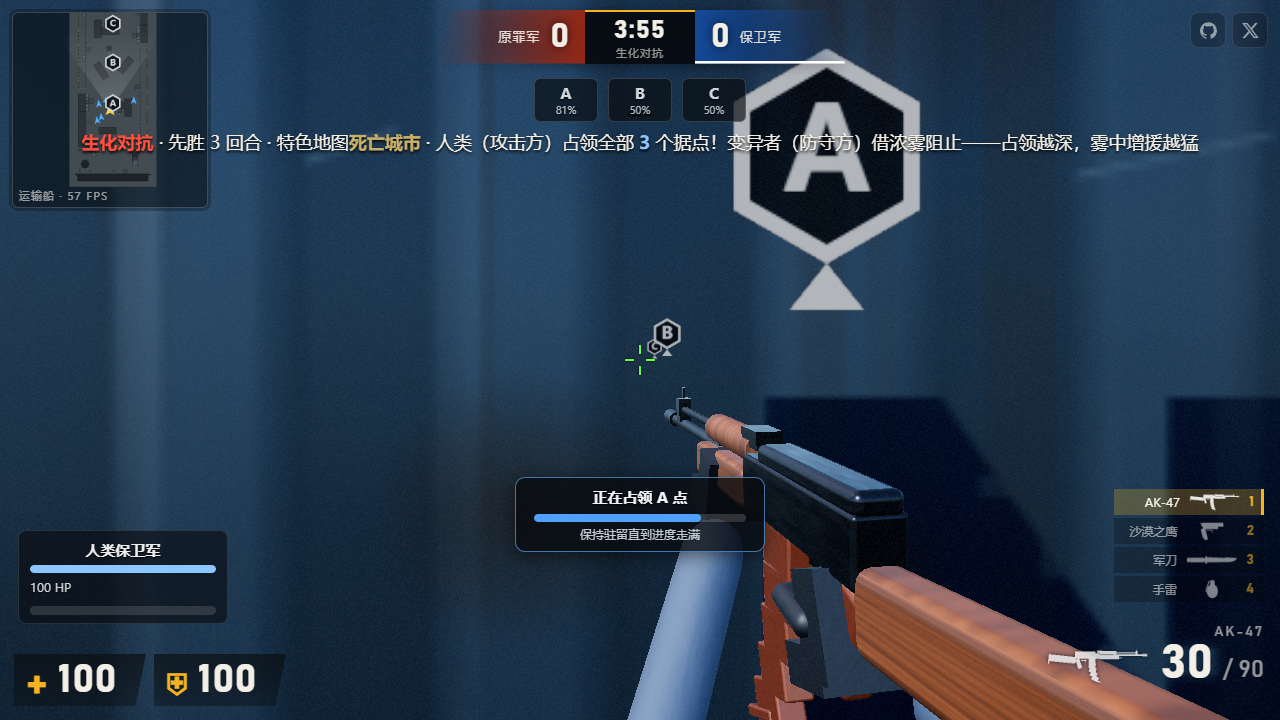
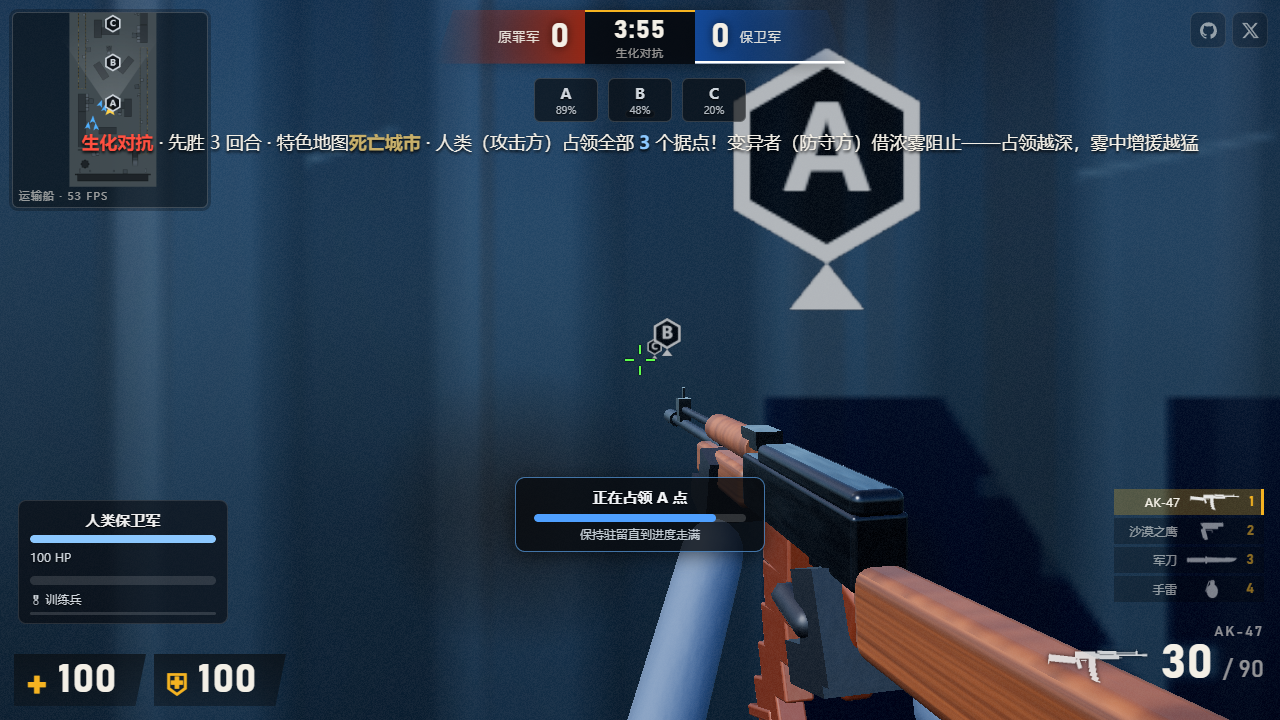
V104 军衔等级系统（官方74级表）+ 官方数据回正（复仇者阈值2/变异者承伤充能）
- src/woz/ranks.js：官方 74 级军衔表（训练兵0→元帅12454000，yzz 473436 全量数值，
  准将3区间按等差修正），rankOf/rankProgress/六档分色/V形纹，xpForMatch 局末经验公式，
  localStorage 持久化
- integrate.js：settleRank 局末结算 + 晋升号角三连/toast；身份牌军衔徽章行（woz/hud.js）
- src/hud.js：修复结算页 WOZ 生涯统计被 endMe.textContent 覆盖丢失的存量 bug，追加军衔行
- 官方数据回正：avengerHumanThreshold 1→2（yzz 516896 上线公告「仅剩两名幸存者」，
  17173「最后的幸存者」为文学化表述）；reportDamage 变异者承伤充能（半速，官方口径）
- 测试：probe v77（12 断言：公式/持久化/晋升/徽章/结算页/号角）；rules +14 断言（97 全绿）；
  v16/v68 按阈值2语义重排搭建；全量回归 v1-v77 + e2e 41 + smoke + balance 绿
- WOZ_RESEARCH.md 第十节：yzz 官方资料库全量采编（军衔表/技能LV123数值/键位表/
  11张官方地图/6角色/模式表/装备道具/武器类别）+ V104+ 版本规划池

Changed region(s): [[0.0, 0.6722, 0.1875, 0.8556], [0.5312, 0.7028, 0.5625, 0.7333], [0.0625, 0.1528, 0.0938, 0.1833]]

diff --git a/cf-transport-ship/src/woz/ranks.js b/cf-transport-ship/src/woz/ranks.js
@@ -1,0 +1,78 @@
+// V104 军衔等级系统 —— 官方 74 级军衔表（叶子猪官方专区 473436 页完整数值；
+// 原文准将3区间排版错误按等差 280000 修正为 5144000∼5423999）
+// 士兵4 → 军士19 → 尉官15 → 校官15 → 将官20 → 元帅1，经验为累计值，元帅封顶。
+
+// 阈值表手工展开（官方逐级数值，勿改）
+export const RANK_XP = [
+  0, 600, 1800, 3500, // 士兵：训练兵 二等兵 一等兵 上等兵
+  6000, 11000, 16000, 21000, 26000, 33000, 40000, 47000, 54000, // 军士：兵长1-2 下士1-3 中士1-4
+  64000, 74000, 84000, 94000, 104000, 124000, 144000, 164000, 184000, 204000, // 上士1-5 元士1-5
+  244000, 284000, 324000, 364000, 404000, 484000, 564000, 644000, 724000, 804000, // 尉官：少尉1-5 中尉1-5
+  904000, 1004000, 1104000, 1204000, 1304000, // 上尉1-5
+  1454000, 1604000, 1754000, 1904000, 2054000, 2254000, 2454000, 2654000, 2854000, 3054000, // 校官：少校 中校
+  3304000, 3554000, 3804000, 4054000, 4304000, // 上校1-5
+  4584000, 4864000, 5144000, 5424000, 5704000, 6034000, 6364000, 6694000, 7024000, 7354000, // 将官：准将 少将
+  7734000, 8114000, 8494000, 8874000, 9254000, 9754000, 10254000, 10754000, 11254000, 11754000, // 中将 上将
+  12454000, // 元帅
+];
+
+const NAME = (zh, n, s = 1) => Array.from({ length: n }, (_, i) => zh + (n > 1 ? (i + 1) * s : ''));
+export const RANK_NAMES = [
+  ...['训练兵', '二等兵', '一等兵', '上等兵'],
+  ...NAME('兵长', 2), ...NAME('下士', 3), ...NAME('中士', 4), ...NAME('上士', 5), ...NAME('元士', 5),
+  ...NAME('少尉', 5), ...NAME('中尉', 5), ...NAME('上尉', 5),
+  ...NAME('少校', 5), ...NAME('中校', 5), ...NAME('上校', 5),
+  ...NAME('准将', 5), ...NAME('少将', 5), ...NAME('中将', 5), ...NAME('上将', 5),
+  '元帅',
+];
+
+// 军衔分档（徽章配色）：0-3 士兵 / 4-22 军士 / 23-37 尉官 / 38-52 校官 / 53-72 将官 / 73 元帅
+export const RANK_TIERS = [
+  { name: '士兵', max: 3, color: '#9aa7b5', chev: '#c8d4e0' },
+  { name: '军士', max: 22, color: '#b08a3e', chev: '#ffd98a' },
+  { name: '尉官', max: 37, color: '#5f86b8', chev: '#a8d0ff' },
+  { name: '校官', max: 52, color: '#c09a2f', chev: '#ffe9a0' },
+  { name: '将官', max: 72, color: '#b8452f', chev: '#ffc8a0' },
+  { name: '元帅', max: 73, color: '#d4af37', chev: '#fff2b0' },
+];
+
+export function rankIdx(xp) {
+  if (!(xp > 0)) return 0;
+  let lo = 0, hi = RANK_XP.length - 1;
+  while (lo < hi) {
+    const mid = (lo + hi + 1) >> 1;
+    if (xp >= RANK_XP[mid]) lo = mid; else hi = mid - 1;
+  }
+  return lo;
+}
+
+export function rankOf(xp) {
+  const i = rankIdx(xp);
+  const tier = RANK_TIERS.findIndex((t) => i <= t.max);
+  const t = RANK_TIERS[tier];
+  const next = i + 1 < RANK_XP.length ? RANK_XP[i + 1] : null;
+  const cur = RANK_XP[i];
+  const frac = next ? Math.max(0, Math.min(1, (xp - cur) / (next - cur))) : 1;
+  return { idx: i, name: RANK_NAMES[i], tier, tierName: t.name, color: t.color, chev: t.chev,
+    cur, next, frac, // 当前档内经验 / 下一档所需（经验条）
+    chevrons: 1 + (i - (tier > 0 ? RANK_TIERS[tier - 1].max + 1 : 0)) }; // 档内第几级（V 形纹数量）
+}
+
+// 局末经验公式（官方未公开每局经验 → 按成分自定平衡：杀敌/伤害/感染/觉醒/胜负/时长）
+export function xpForMatch(st, win, seconds) {
+  const kills = st ? (st.kills || 0) : 0;
+  const dmg = st ? ((st.humanDamage || 0) + (st.damageDealt || 0)) : 0;
+  const inf = st && st.infections ? st.infections : 0;
+  const av = st && st.isAvenger ? 1 : 0;
+  const mins = Math.max(0, Math.floor((seconds || 0) / 60));
+  return Math.round(kills * 25 + dmg / 50 + inf * 40 + av * 100
+    + (win === true ? 150 : win === null ? 75 : 0) + mins * 10);
+}
+
+const KEY = 'woz_xp_v1';
+export function loadXp() {
+  try { const v = parseFloat(localStorage.getItem(KEY)); return isFinite(v) && v > 0 ? v : 0; } catch (e) { return 0; }
+}
+export function saveXp(xp) {
+  try { localStorage.setItem(KEY, String(Math.max(0, Math.round(xp)))); } catch (e) { /* 无痕模式忽略 */ }
+}

diff --git a/cf-transport-ship/src/woz/integrate.js b/cf-transport-ship/src/woz/integrate.js
@@ -12,6 +12,7 @@ import { wozAudio } from './audio.js';
 import { CapturePoint, NuclearBomb } from './objectives.js';
 import { Pickups } from './pickups.js';
 import { WOZ, MutantClass, CLASS_LABEL, CONFRONT, DEMOL, BIO, AIRDROP } from './config.js';
+import { rankOf, xpForMatch, loadXp, saveXp } from './ranks.js';
 import { audio } from '../audio.js';
 
 const ROUND_WINS = 3;
@@ -49,6 +50,9 @@ export class WozManager {
     this.supplyT = 45;                // 补给变异体刷新（V35）
     this.props = [];                  // 场景道具：爆炸油桶 / 可破坏木箱（V39）
     this._evoStageSeen = {};          // 进化阶段播报去重
+    this.rankXp = loadXp();           // V104 军衔经验（localStorage 持久化）
+    this._rankT0 = (typeof performance !== 'undefined' ? performance.now() : Date.now());
+    this.lastRankGain = null;         // V104 局末军衔结算快照（HUD 结算页读取）
   }
 
   // 模式分类：infection 族（感染/复仇/生化）走规则层；对抗/爆破走目标物逻辑
@@ -62,6 +66,7 @@ export class WozManager {
   startMatch() {
     const g = this.g, o = g.opts;
     this.mode = o.mode;
+    this._rankT0 = (typeof performance !== 'undefined' ? performance.now() : Date.now()); // V104 本局起算（各模式通用）
     if (this.cat() !== 'infection') return this.startObjectives();
     g.audio.init(); g.audio.setVolumes({ master: o.vol }); g.audio.startAmbient(); g.audio.playUI('start');
     for (const a of g.actors) g.renderer.scene.remove(a.soldier.root);
@@ -2148,12 +2153,34 @@ export class WozManager {
     g.audio.playUI(human ? 'roundEnd' : 'death');
   }
 
+  // V104 军衔结算：官方 74 级表，经验入账 + 晋升号角播报（经验公式成分：杀敌/伤害/感染/觉醒/胜负/时长）
+  settleRank(win) {
+    const g = this.g;
+    let st = null;
+    try { st = this.rules ? this.rules.state(g.player.id) : null; } catch (e) { /* 规则未就绪不结算 */ }
+    const raw = ((typeof performance !== 'undefined' ? performance.now() : Date.now()) - this._rankT0) / 1000;
+    const gained = xpForMatch(st, win, isFinite(raw) ? Math.max(0, raw) : 0);
+    const before = this.rankXp || 0;
+    const old = rankOf(before), now = rankOf(before + gained);
+    this.rankXp = before + gained;
+    saveXp(this.rankXp);
+    this.lastRankGain = { gained, from: old.name, to: now.name, up: now.idx > old.idx, xp: this.rankXp };
+    if (now.idx > old.idx) {
+      wozAudio.beep(null, 660, 0.09);
+      setTimeout(() => wozAudio.beep(null, 880, 0.09), 130);
+      setTimeout(() => wozAudio.beep(null, 1100, 0.13), 260);
+      g.hud.toast(`<b style="color:#ffd24a">🎖 军衔晋升：${now.tierName} · ${now.name}</b>`, 4);
+    }
+    return this.lastRankGain;
+  }
+
   endMatch() {
     const g = this.g;
     g.slowMoT = 0.8; g.slowMoScale = 0.35; // 感染族决胜慢动作（V32）
     g.ended = true; g.playing = false;
     this.disposeObjectives();
     const win = this.score.GR === this.score.BL ? null : this.score.GR > this.score.BL;
+    try { this.settleRank(win); } catch (e) { /* 军衔结算失败不影响主流程 */ }
     g.hud.endScreen(win, this.score, g.actors, g.player.id);
     g.audio.playUI('roundEnd'); g.audio.setLowHealth(false);
     g.audio.announce(win ? 'Mission accomplished' : win === null ? 'Draw' : 'Mission failed');

diff --git a/cf-transport-ship/src/hud.js b/cf-transport-ship/src/hud.js
@@ -372,17 +372,6 @@ export class HUD {
   }
   endScreen(win, score, actors, myId) {
     this.show('end');
-    // WOZ 模式：附加个人成长统计（感染/吞噬/进化/档位）
-    if (this.g.woz?.rules) {
-      try {
-        const rules = this.g.woz.rules, st = rules.state(myId);
-        const extra = st.side === 'mutant' || st.isMother
-          ? `变异者生涯：吞噬 ${st.devourCount} · 进化 ${st.evoPoints} 点 · ${['基础', '一阶', '二阶', '三阶'][rules.evoStage(st)]}阶段${st.infections ? ` · 感染 ${st.infections} 人` : ''}`
-          : `人类生涯：进化 Lv.${rules.humanTier(myId)} · 击杀 ${st.kills}${st.isAvenger ? ' · ⚡复仇者' : ''}`;
-        const em = this.el.endMe;
-        if (em) em.innerHTML = `${em.textContent}<br><span style="color:#ffd24a">${extra}</span>`;
-      } catch (e) { /* 结算统计失败不影响主流程 */ }
-    }
     const r = this.el.endRes;
     r.textContent = win === null ? '平局' : win ? '胜利' : '失败';
     r.className = 'res ' + (win ? 'win' : 'lose');
@@ -392,6 +381,20 @@ export class HUD {
     const me = actors.find((a) => a.id === myId);
     const acc = me && me.stats.shots ? ((me.stats.hits / me.stats.shots) * 100).toFixed(1) : '0';
     this.el.endMe.textContent = me ? `你的战绩：${me.stats.k} 击杀 · ${me.stats.d} 死亡 · ${me.stats.hs} 爆头 · 命中率 ${acc}%` : '';
+    // WOZ 模式：附加个人成长统计（感染/吞噬/进化/档位）+ 军衔结算行
+    // V104 修正：追加在战绩行赋值之后（此前先写 innerHTML 会被上方 textContent 赋值整行覆盖丢失）
+    if (this.g.woz?.rules) {
+      try {
+        const rules = this.g.woz.rules, st = rules.state(myId);
+        const extra = st.side === 'mutant' || st.isMother
+          ? `变异者生涯：吞噬 ${st.devourCount} · 进化 ${st.evoPoints} 点 · ${['基础', '一阶', '二阶', '三阶'][rules.evoStage(st)]}阶段${st.infections ? ` · 感染 ${st.infections} 人` : ''}`
+          : `人类生涯：进化 Lv.${rules.humanTier(myId)} · 击杀 ${st.kills}${st.isAvenger ? ' · ⚡复仇者' : ''}`;
+        const rg = this.g.woz.lastRankGain;
+        const rank = rg ? `<br><span style="color:#9fd0ff">🎖 ${rg.to} · 本局 +${rg.gained} 经验${rg.up ? `（晋升：${rg.from} → ${rg.to}）` : ''}</span>` : '';
+        const em = this.el.endMe;
+        if (em) em.innerHTML += `<br><span style="color:#ffd24a">${extra}</span>${rank}`;
+      } catch (e) { /* 结算统计失败不影响主流程 */ }
+    }
     const rows = (team) => actors.filter((a) => a.team === team).sort((a, b) => b.stats.k - a.stats.k)
       .map((a) => `<tr class="${a.id === myId ? 'me' : ''}"><td>${esc(a.name)}</td><td>${a.stats.k}</td><td>${a.stats.d}</td><td>${a.stats.hs}</td></tr>`).join('');
     const tbl = (team) => `<table class="t${team}"><tr><th class="team">${this.teamName(team)}</th><th>击杀</th><th>死亡</th><th>爆头</th></tr>${rows(team)}</table>`;

diff --git a/cf-transport-ship/src/woz/hud.js b/cf-transport-ship/src/woz/hud.js
@@ -1,5 +1,6 @@
 // WOZ HUD：身份牌 / 技能充能 / 吞噬提示 / 存活比 / 致盲遮罩 / 职业变身
 import { CLASS_LABEL, SKILL_LABEL, skillOf, WOZ } from './config.js';
+import { rankOf } from './ranks.js';
 
 // 感染变身选择面板卡片（WOZ 特色：感染后自选形态）
 const CLASS_PICK = [
@@ -124,6 +125,8 @@ export class WozHud {
           <div class="row"><span id="wzHpTxt">100 HP</span><span id="wzTier"></span></div>
           <div class="row"><span id="wzEvo"></span><span id="wzDevour" style="color:#ffd24a"></span></div>
           <div class="ultbar"><i id="wzUltFill"></i><small id="wzUltTxt"></small></div>
+          <div class="row" id="wzRankRow"><span id="wzRank">🎖 训练兵</span><span id="wzRankXp"></span></div>
+          <div class="bar" id="wzRankWrap" style="height:3px"><i id="wzRankBar" style="width:0%;background:#7fb2e8"></i></div>
         </div>
       </div>
       <div id="wozBig" class="off">
@@ -164,6 +167,9 @@ export class WozHud {
       tier: document.getElementById('wzTier'),
       evo: document.getElementById('wzEvo'),
       devour: document.getElementById('wzDevour'),
+      rank: document.getElementById('wzRank'),
+      rankXp: document.getElementById('wzRankXp'),
+      rankBar: document.getElementById('wzRankBar'),
       big: document.getElementById('wozBig'),
       bigRole: document.getElementById('wzBigRole'),
       bigHp: document.getElementById('wzBigHp'),
@@ -194,10 +200,29 @@ export class WozHud {
     this.mounted = false;
   }
 
+  // V104 军衔徽章：官方 74 级表 → 档位色 + V 形纹数量 + 档内经验条（跨局 localStorage 持久）
+  syncRank(mgr) {
+    if (!this.el.rank || !mgr) return;
+    const xp = mgr.rankXp || 0;
+    const rk = rankOf(xp);
+    const label = `${rk.tierName}·${rk.name}`;
+    if (label !== this._rankLabel) {
+      this._rankLabel = label;
+      const chev = '▲'.repeat(Math.min(rk.chevrons, 5));
+      this.el.rank.innerHTML = `<span style="color:${rk.chev}">${chev}</span> <span style="color:${rk.color}">${rk.name}</span>`;
+    }
+    if (xp !== this._rankXpShown) {
+      this._rankXpShown = xp;
+      this.el.rankXp.textContent = rk.next ? `${xp - rk.cur} / ${rk.next - rk.cur}` : 'MAX';
+      this.el.rankBar.style.width = `${rk.frac * 100}%`;
+    }
+  }
+
   update(rules, player, mgr) {
     if (!this.mounted) return;
     const st = rules.state(player.id);
     const g = this.g;
+    this.syncRank(mgr); // V104 军衔徽章（XP 只在局末变动，内部有去重门槛）
     // 顶栏：阶段 + 存活比
     const phase = rules.phase === 'buy' ? '购买期'
       : rules.phase === 'battle' ? '感染战'

diff --git a/cf-transport-ship/src/woz/config.js b/cf-transport-ship/src/woz/config.js
@@ -74,7 +74,7 @@ export const WOZ = {
   avengerSpeed: 1.2,
   avengerDef: 0.3,          // 复仇者防御被动（原作：超越人类体能极限的防御力）
   avengerSpinRadius: 2.8,   // 旋转清场半径（原作：被包围时原地旋转清除近身敌人）
-  avengerHumanThreshold: 1, // V94 对齐原作：人类【最后的幸存者】（单数）进化为复仇者
+  avengerHumanThreshold: 2, // V104 回正：官方上线公告原文「人类阵营仅剩两名幸存者时…成为复仇者」（yzz 516896；17173「最后的幸存者」为文学化表述）
   avengerTimeThreshold: 45,
   mutantRevives: 1,
   mutantReviveDelay: 5,

diff --git a/cf-transport-ship/src/woz/rules.js b/cf-transport-ship/src/woz/rules.js
@@ -343,6 +343,11 @@ export class WozRules {
       p.humanDamage += amount;
       p.energy = Math.min(100, p.energy + amount * WOZ.energyPerDamage); // 伤害充能（V46）
     }
+    // V104 官方口径：变异者能量 = 感染人类 + 承受人类攻击伤害 + 时间（yzz 516896）→ 承伤充能（半速）
+    const v = victimId >= 0 && victimId < this.playerCount ? this.players[victimId] : null;
+    if (v && v !== p && v.side === 'mutant' && v.alive) {
+      v.skillCharge = Math.min(1, v.skillCharge + amount * WOZ.skillChargePerDamage * 0.5);
+    }
   }
 
   tryDevour(mutantId, corpseId) {

diff --git a/cf-transport-ship/WOZ_README.md b/cf-transport-ship/WOZ_README.md
@@ -286,3 +286,5 @@ scripts/          # smoke / woz-e2e / woz-e2e2 / woz-balance 四套自动化
 | V102 | **电锯音效**：锯链合成音（怠速嗡鸣/切割负载掉速+刮擦抖动），挥空不再无声。probe v76 |
 
 | V103 | **全量回归收尾**：v1–v76 全扫描，修复 v16（玩家 id 相对的最后幸存者搭建）与 v72（bot 隔离防 AI 再出爪）两处测试过期回归；balance 三模式完赛 |
+
+| V104 | **军衔等级系统**（官方 74 级表：训练兵 0 → 元帅 12454000，六档分色徽章+V形纹+档内经验条，局末经验结算 杀25/伤÷50/感染40/觉醒100/胜150/分×10，localStorage 跨局持久，晋升号角+toast）；官方数据回正：复仇者阈值回 2（yzz 516896 上线公告「仅剩两名幸存者」）+ 变异者承伤充能（半速）；修复结算页生涯统计被覆盖丢失。probe v77 + rules 14 断言 |
